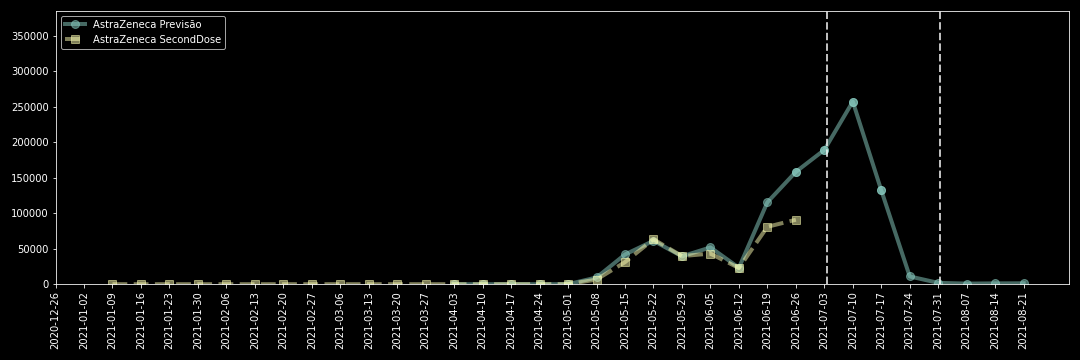
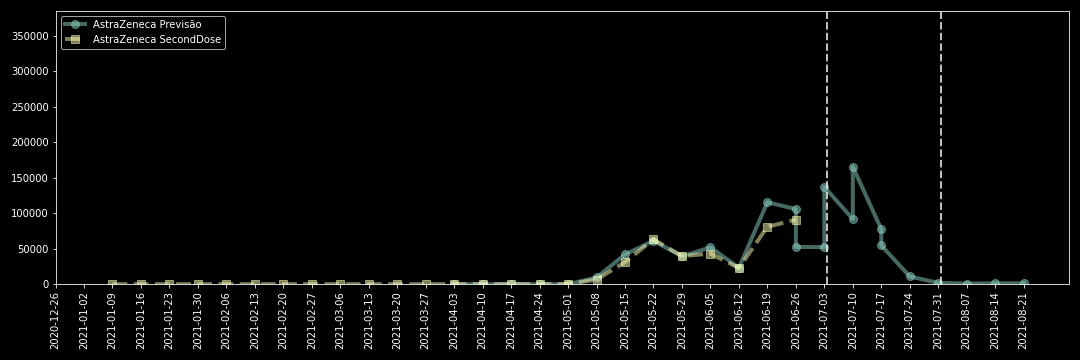
update

Changed region(s): [[0.7028, 0.275, 0.8556, 0.7639]]

diff --git a/docs/index.html b/docs/index.html
@@ -30,7 +30,7 @@ a {
 </head>
 
 <body>
-    <h1>Dados para dia 2021-07-03 14:46</h1>
+    <h1>Dados para dia 2021-07-03 14:48</h1>
     <hr />
 
     <h1>Confirmados</h1>
@@ -39,14 +39,14 @@ a {
     <p>
         Percentagem de confirmados por idade em relaçao ao total, médias 7 dias.
     </p>
-    <img src="charts/confirmados_idade.png?r=20210703144627" />
+    <img src="charts/confirmados_idade.png?r=20210703144844" />
 
     <h2>Amostras vs. confirmados</h2>
     <p>
         Média 7 dias de amostras Total, PCR, e Antigénio, do lado esquerdo, vs. média 7 dias de 
         confirmados. Usado para ver picos de testagem por exemplo no início da escola.
     </p>
-    <img src="charts/diario_amostras_vs_confirmados.png?r=20210703144627" />
+    <img src="charts/diario_amostras_vs_confirmados.png?r=20210703144844" />
 
     <hr />
     <h1>Vigilância</h1>
@@ -56,8 +56,8 @@ a {
         Variação vigilância vs. ativos, e vigilância por ativos. Quiçá havendo mais em vigilância
         que ativos poderá representar surtos com grupos maiores.
     </p>
-    <img src="charts/variacao_vigilancia_1.png?r=20210703144627" />
-    <img src="charts/variacao_vigilancia_2.png?r=20210703144627" />
+    <img src="charts/variacao_vigilancia_1.png?r=20210703144844" />
+    <img src="charts/variacao_vigilancia_2.png?r=20210703144844" />
 
     <hr />
     <h1>Hospitalização</h1>
@@ -67,7 +67,7 @@ a {
         Variação internados enfermaria diários, média 7 dias, médias 14 dias, e 
         variação da variação semanal (7diff).
     </p>
-    <img src="charts/variacao_enfermaria.png?r=20210703144627" />
+    <img src="charts/variacao_enfermaria.png?r=20210703144844" />
     <hr />
 
     <h2>Variação de internados em UCI</h2>
@@ -75,7 +75,7 @@ a {
         Variação internados UCI diários, média 7 dias, médias 14 dias, e 
         variação da variação semanal (7diff).
     </p>
-    <img src="charts/variacao_uci.png?r=20210703144627" />
+    <img src="charts/variacao_uci.png?r=20210703144844" />
 
     <hr />
     <h1>Incidência</h1>
@@ -86,81 +86,81 @@ a {
     </p>
 
     <h2>Incidência Nacional</h2>
-    <img src="charts/incidencia_Nacional.png?r=20210703144627" />
-    <img src="charts/incidencia_Nacional_7.png?r=20210703144627" />
+    <img src="charts/incidencia_Nacional.png?r=20210703144844" />
+    <img src="charts/incidencia_Nacional_7.png?r=20210703144844" />
 
     <hr />
 
     <h2>Incidência Norte</h2>
-    <img src="charts/incidencia_norte.png?r=20210703144627" />
-    <img src="charts/incidencia_norte_7.png?r=20210703144627" />
+    <img src="charts/incidencia_norte.png?r=20210703144844" />
+    <img src="charts/incidencia_norte_7.png?r=20210703144844" />
 
     <h2>Incidência Centro</h2>
-    <img src="charts/incidencia_centro.png?r=20210703144627" />
-    <img src="charts/incidencia_centro_7.png?r=20210703144627" />
+    <img src="charts/incidencia_centro.png?r=20210703144844" />
+    <img src="charts/incidencia_centro_7.png?r=20210703144844" />
 
     <h2>Incidência LVT</h2>
-    <img src="charts/incidencia_lvt.png?r=20210703144627" />
-    <img src="charts/incidencia_lvt_7.png?r=20210703144627" />
+    <img src="charts/incidencia_lvt.png?r=20210703144844" />
+    <img src="charts/incidencia_lvt_7.png?r=20210703144844" />
 
     <h2>Incidência Alentejo</h2>
-    <img src="charts/incidencia_alentejo.png?r=20210703144627" />
-    <img src="charts/incidencia_alentejo_7.png?r=20210703144627" />
+    <img src="charts/incidencia_alentejo.png?r=20210703144844" />
+    <img src="charts/incidencia_alentejo_7.png?r=20210703144844" />
 
     <h2>Incidência Algarve</h2>
-    <img src="charts/incidencia_algarve.png?r=20210703144627" />
-    <img src="charts/incidencia_algarve_7.png?r=20210703144627" />
+    <img src="charts/incidencia_algarve.png?r=20210703144844" />
+    <img src="charts/incidencia_algarve_7.png?r=20210703144844" />
 
     <h2>Incidência Madeira</h2>
-    <img src="charts/incidencia_madeira.png?r=20210703144627" />
-    <img src="charts/incidencia_madeira_7.png?r=20210703144627" />
+    <img src="charts/incidencia_madeira.png?r=20210703144844" />
+    <img src="charts/incidencia_madeira_7.png?r=20210703144844" />
 
     <h2>Incidência Açores</h2>
-    <img src="charts/incidencia_acores.png?r=20210703144627" />
-    <img src="charts/incidencia_acores_7.png?r=20210703144627" />
+    <img src="charts/incidencia_acores.png?r=20210703144844" />
+    <img src="charts/incidencia_acores_7.png?r=20210703144844" />
 
     <hr />
 
     <h2>Incidência 0-9</h2>
-    <img src="charts/incidencia_0_9.png?r=20210703144627" />
-    <img src="charts/incidencia_0_9_7.png?r=20210703144627" />
+    <img src="charts/incidencia_0_9.png?r=20210703144844" />
+    <img src="charts/incidencia_0_9_7.png?r=20210703144844" />
 
     <h2>Incidência 10-19</h2>
-    <img src="charts/incidencia_10_19.png?r=20210703144627" />
-    <img src="charts/incidencia_10_19_7.png?r=20210703144627" />
+    <img src="charts/incidencia_10_19.png?r=20210703144844" />
+    <img src="charts/incidencia_10_19_7.png?r=20210703144844" />
 
     <h2>Incidência 20-29</h2>
-    <img src="charts/incidencia_20_29.png?r=20210703144627" />
-    <img src="charts/incidencia_20_29_7.png?r=20210703144627" />
+    <img src="charts/incidencia_20_29.png?r=20210703144844" />
+    <img src="charts/incidencia_20_29_7.png?r=20210703144844" />
 
     <h2>Incidência 30-39</h2>
-    <img src="charts/incidencia_30_39.png?r=20210703144627" />
-    <img src="charts/incidencia_30_39_7.png?r=20210703144627" />
+    <img src="charts/incidencia_30_39.png?r=20210703144844" />
+    <img src="charts/incidencia_30_39_7.png?r=20210703144844" />
 
     <h2>Incidência 40-49</h2>
-    <img src="charts/incidencia_40_49.png?r=20210703144627" />
-    <img src="charts/incidencia_40_49_7.png?r=20210703144627" />
+    <img src="charts/incidencia_40_49.png?r=20210703144844" />
+    <img src="charts/incidencia_40_49_7.png?r=20210703144844" />
 
     <h2>Incidência 50-59</h2>
-    <img src="charts/incidencia_50_59.png?r=20210703144627" />
-    <img src="charts/incidencia_50_59_7.png?r=20210703144627" />
+    <img src="charts/incidencia_50_59.png?r=20210703144844" />
+    <img src="charts/incidencia_50_59_7.png?r=20210703144844" />
 
     <h2>Incidência 60-69</h2>
-    <img src="charts/incidencia_60_69.png?r=20210703144627" />
-    <img src="charts/incidencia_60_69_7.png?r=20210703144627" />
+    <img src="charts/incidencia_60_69.png?r=20210703144844" />
+    <img src="charts/incidencia_60_69_7.png?r=20210703144844" />
 
     <h2>Incidência 70-79</h2>
-    <img src="charts/incidencia_70_79.png?r=20210703144627" />
-    <img src="charts/incidencia_70_79_7.png?r=20210703144627" />
+    <img src="charts/incidencia_70_79.png?r=20210703144844" />
+    <img src="charts/incidencia_70_79_7.png?r=20210703144844" />
 
     <h2>Incidência 80+</h2>
-    <img src="charts/incidencia_80_plus.png?r=20210703144627" />
-    <img src="charts/incidencia_80_plus_7.png?r=20210703144627" />
+    <img src="charts/incidencia_80_plus.png?r=20210703144844" />
+    <img src="charts/incidencia_80_plus_7.png?r=20210703144844" />
 
     <hr />
     <h1>Rt</h1>
 
-    <img src="charts/variacao_rt.png?r=20210703144627" />
+    <img src="charts/variacao_rt.png?r=20210703144844" />
 
 
     <hr />
@@ -179,30 +179,30 @@ a {
 
     <h2>Vacinas ECDC Previsão Pfizer</h2>
     <p>Valores semanais de primeira dose adiantadas 4 semanas a partir de Março e três semanas antes.</p>
-    <img src="charts/vacinas_ecdc_previsao_COM.png?r=20210703144627" />
+    <img src="charts/vacinas_ecdc_previsao_COM.png?r=20210703144844" />
 
     <h2>Vacinas ECDC Previsão Moderna</h2>
     <p>Valores semanais de primeira dose adiantadas quatro semanas.</p>
-    <img src="charts/vacinas_ecdc_previsao_MOD.png?r=20210703144627" />
+    <img src="charts/vacinas_ecdc_previsao_MOD.png?r=20210703144844" />
 
     <h2>Vacinas ECDC Previsão AstraZeneca</h2>
     <p>
         Valores semanais de primeira dose adiantadas 8 semanas a partir de julho e 12 antes.
         (vide <a href="https://twitter.com/dgsaude/status/1411056606792622081?s=11">tweet DGS</a>)
     </p>
-    <img src="charts/vacinas_ecdc_previsao_AZ.png?r=20210703144627" />
+    <img src="charts/vacinas_ecdc_previsao_AZ.png?r=20210703144844" />
 
     <h2>Vacinas ECDC Previsão Janssen</h2>
     <p>Valores semanais de primeira dose assumida como unica.</p>
-    <img src="charts/vacinas_ecdc_previsao_JANSS.png?r=20210703144627" />
+    <img src="charts/vacinas_ecdc_previsao_JANSS.png?r=20210703144844" />
 
     <h2>Vacinas ECDC Previsão Total</h2>
     <p>Soma das previsões acima - Pfizer, Moderna, AstraZeneca, Janssen</p>
-    <img src="charts/vacinas_ecdc_previsao_total.png?r=20210703144627" />
+    <img src="charts/vacinas_ecdc_previsao_total.png?r=20210703144844" />
 
     <h2>Vacinas ECDC Previsão</h2>
     <p>Todos os valores acima</p>
-    <img src="charts/vacinas_ecdc_previsao.png?r=20210703144627" />
+    <img src="charts/vacinas_ecdc_previsao.png?r=20210703144844" />
 
     <h2>Vacinas ECDC Previsão Acumulado</h2>
     <p>
@@ -210,11 +210,11 @@ a {
         Previsão das próximas quatro semanas é garantida pelas doses de Pfizer e Moderna até hoje.
         Aumentos a partir daí incluem apenas a AstraZeneca. 
     </p>
-    <img src="charts/vacinas_ecdc_previsao_accumulado.png?r=20210703144627" />
+    <img src="charts/vacinas_ecdc_previsao_accumulado.png?r=20210703144844" />
 
     <h2>Vacinas ECDC Recebidas</h2>
     <p>Vacinas recebidas por semana</p>
-    <img src="charts/vacinas_ecdc_recebidas.png?r=20210703144627" />
+    <img src="charts/vacinas_ecdc_recebidas.png?r=20210703144844" />
 
     <hr />
 
